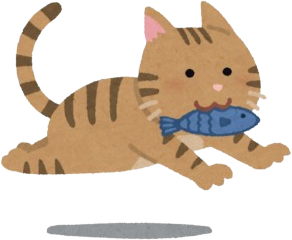
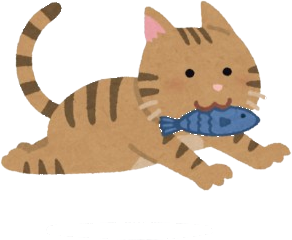
Sacar la sombra del gato y reacomodar su posición
Se remueven los píxeles grisáceos de la sombra en gato-promesas.png
(quedaba como un óvalo gris debajo de las patas). Se corre la
posición 10px a la izquierda y un poco más abajo (top 6px -> 18px),
para que quede mejor centrado entre los dos íconos.

Changed region(s): [[0.1541, 0.9042, 0.7397, 1.0]]

diff --git a/assets/css/style.css b/assets/css/style.css
@@ -317,9 +317,9 @@ nav.main-nav a:hover::after{ transform: scaleX(1); }
 }
 .promise-cat{
   position:absolute;
-  top: 6px;
+  top: 18px;
   left: 33.33%;
-  transform: translateX(-50%) rotate(-8deg);
+  transform: translateX(calc(-50% - 10px)) rotate(-8deg);
   width: 56px; height:auto;
   z-index: 2;
 }
